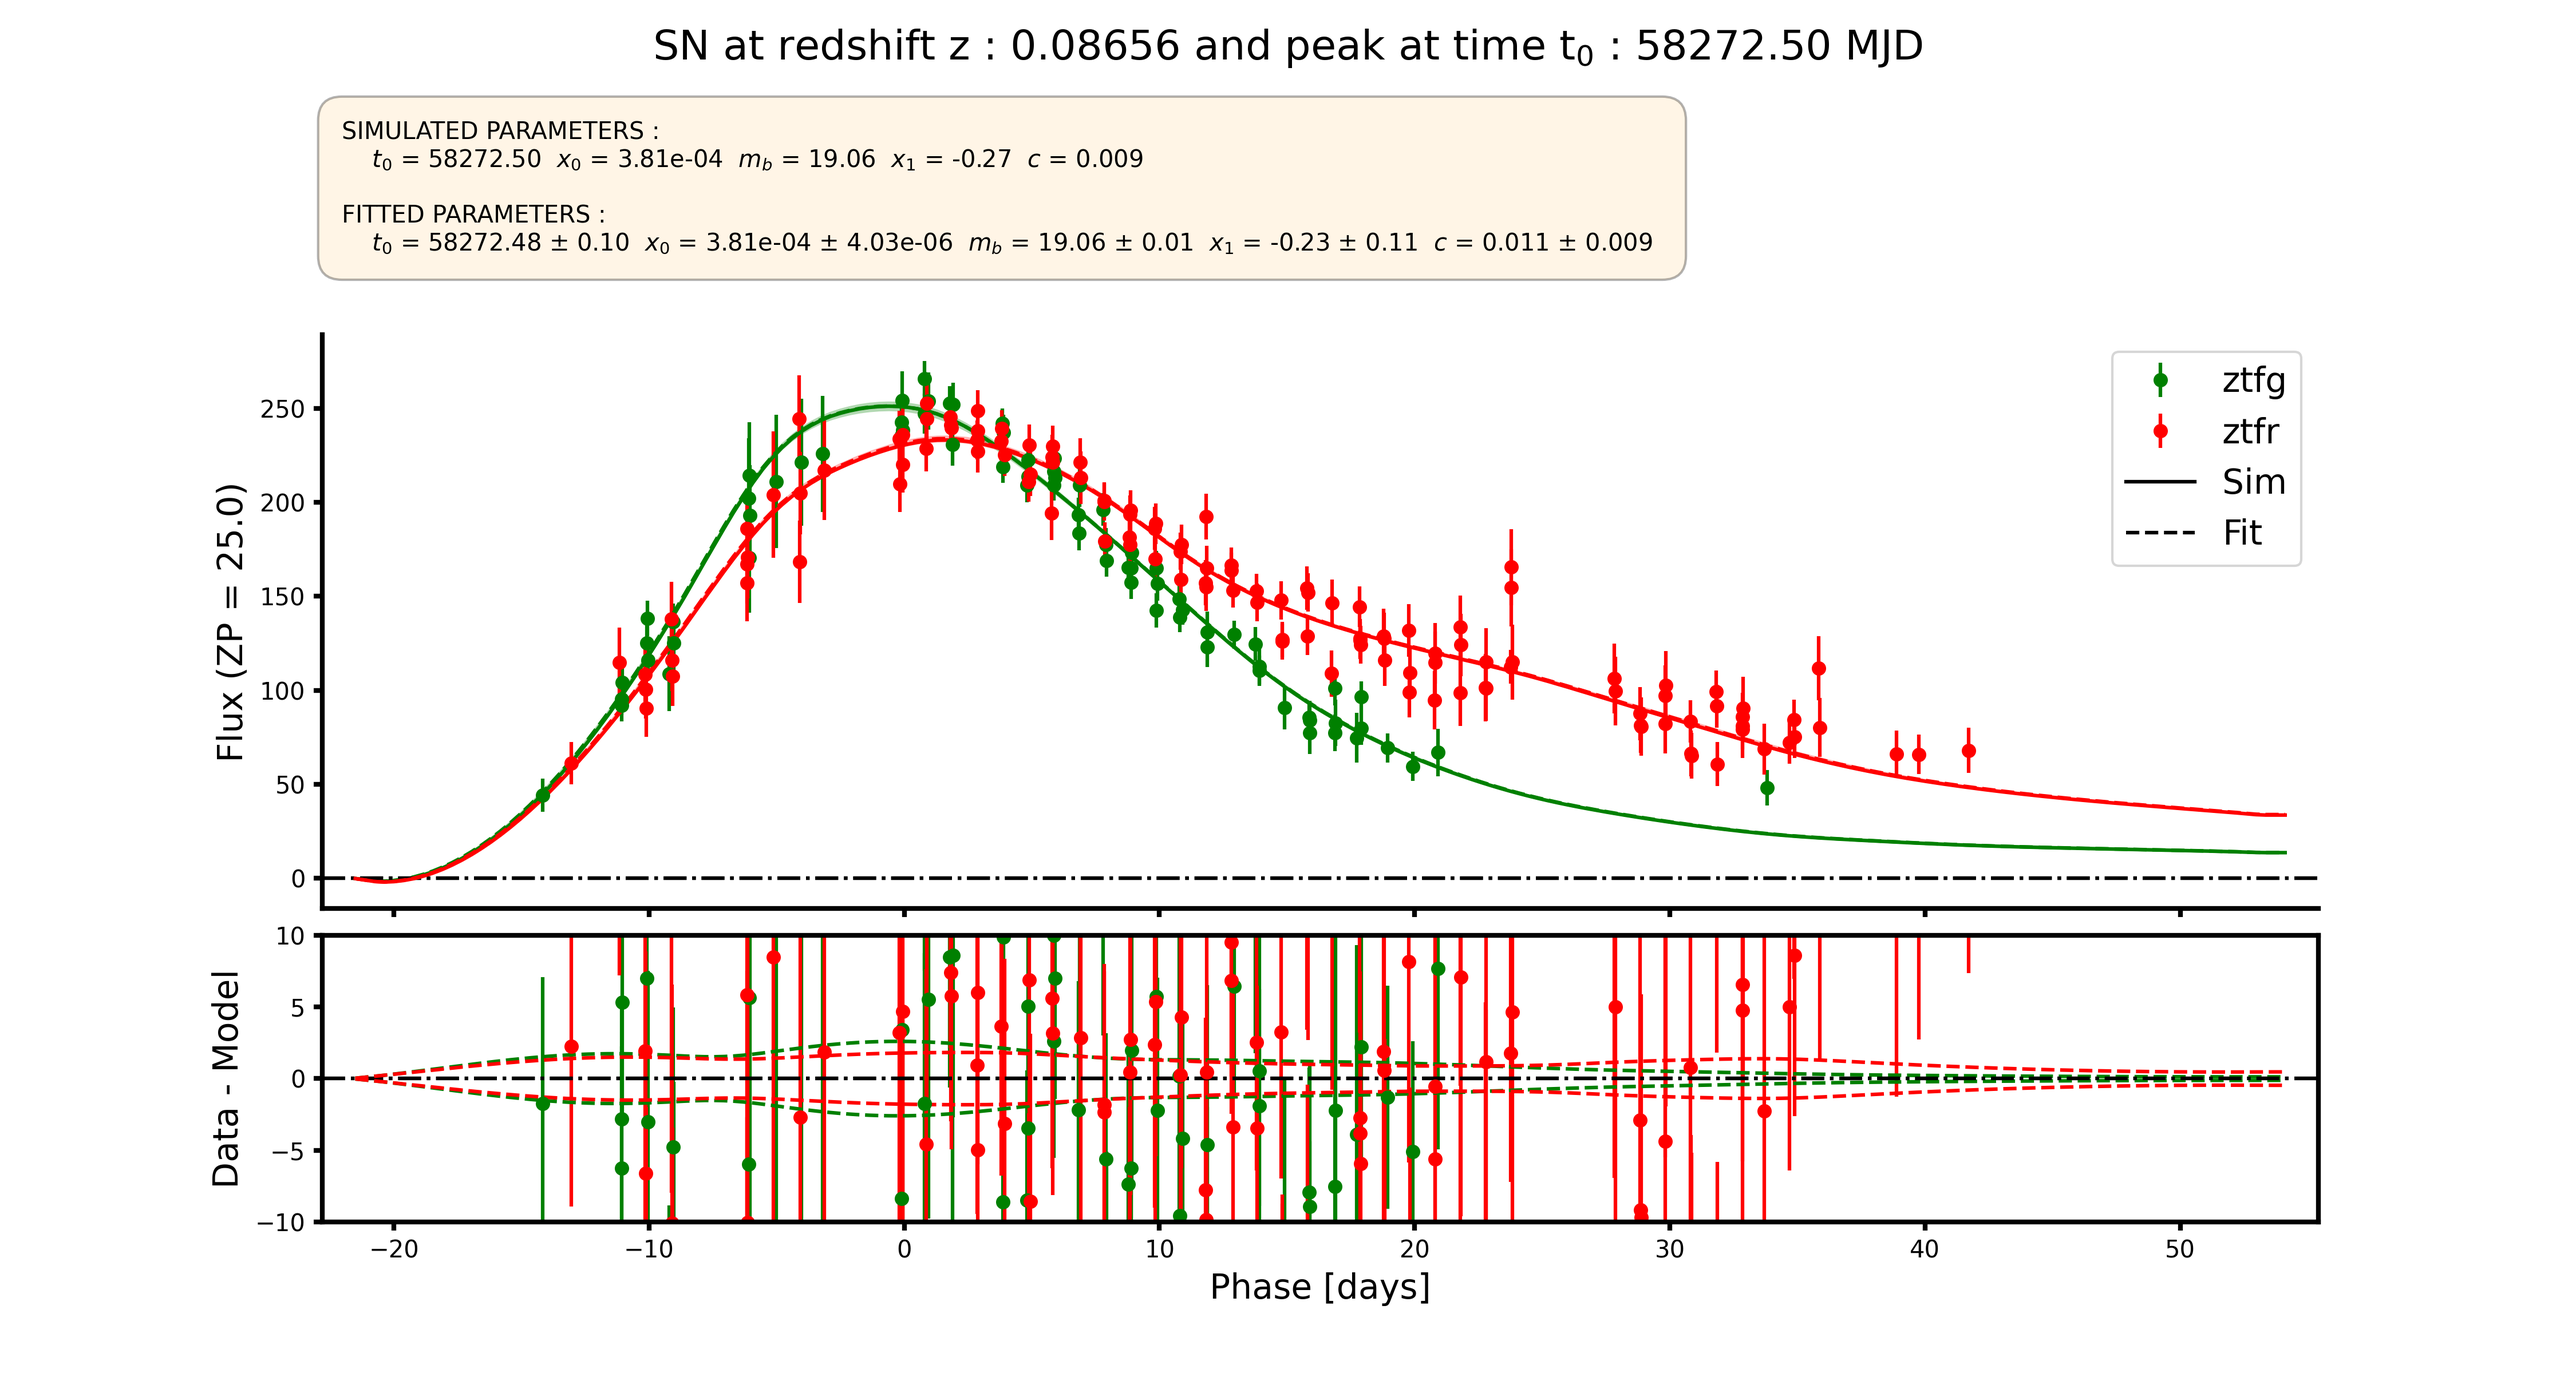
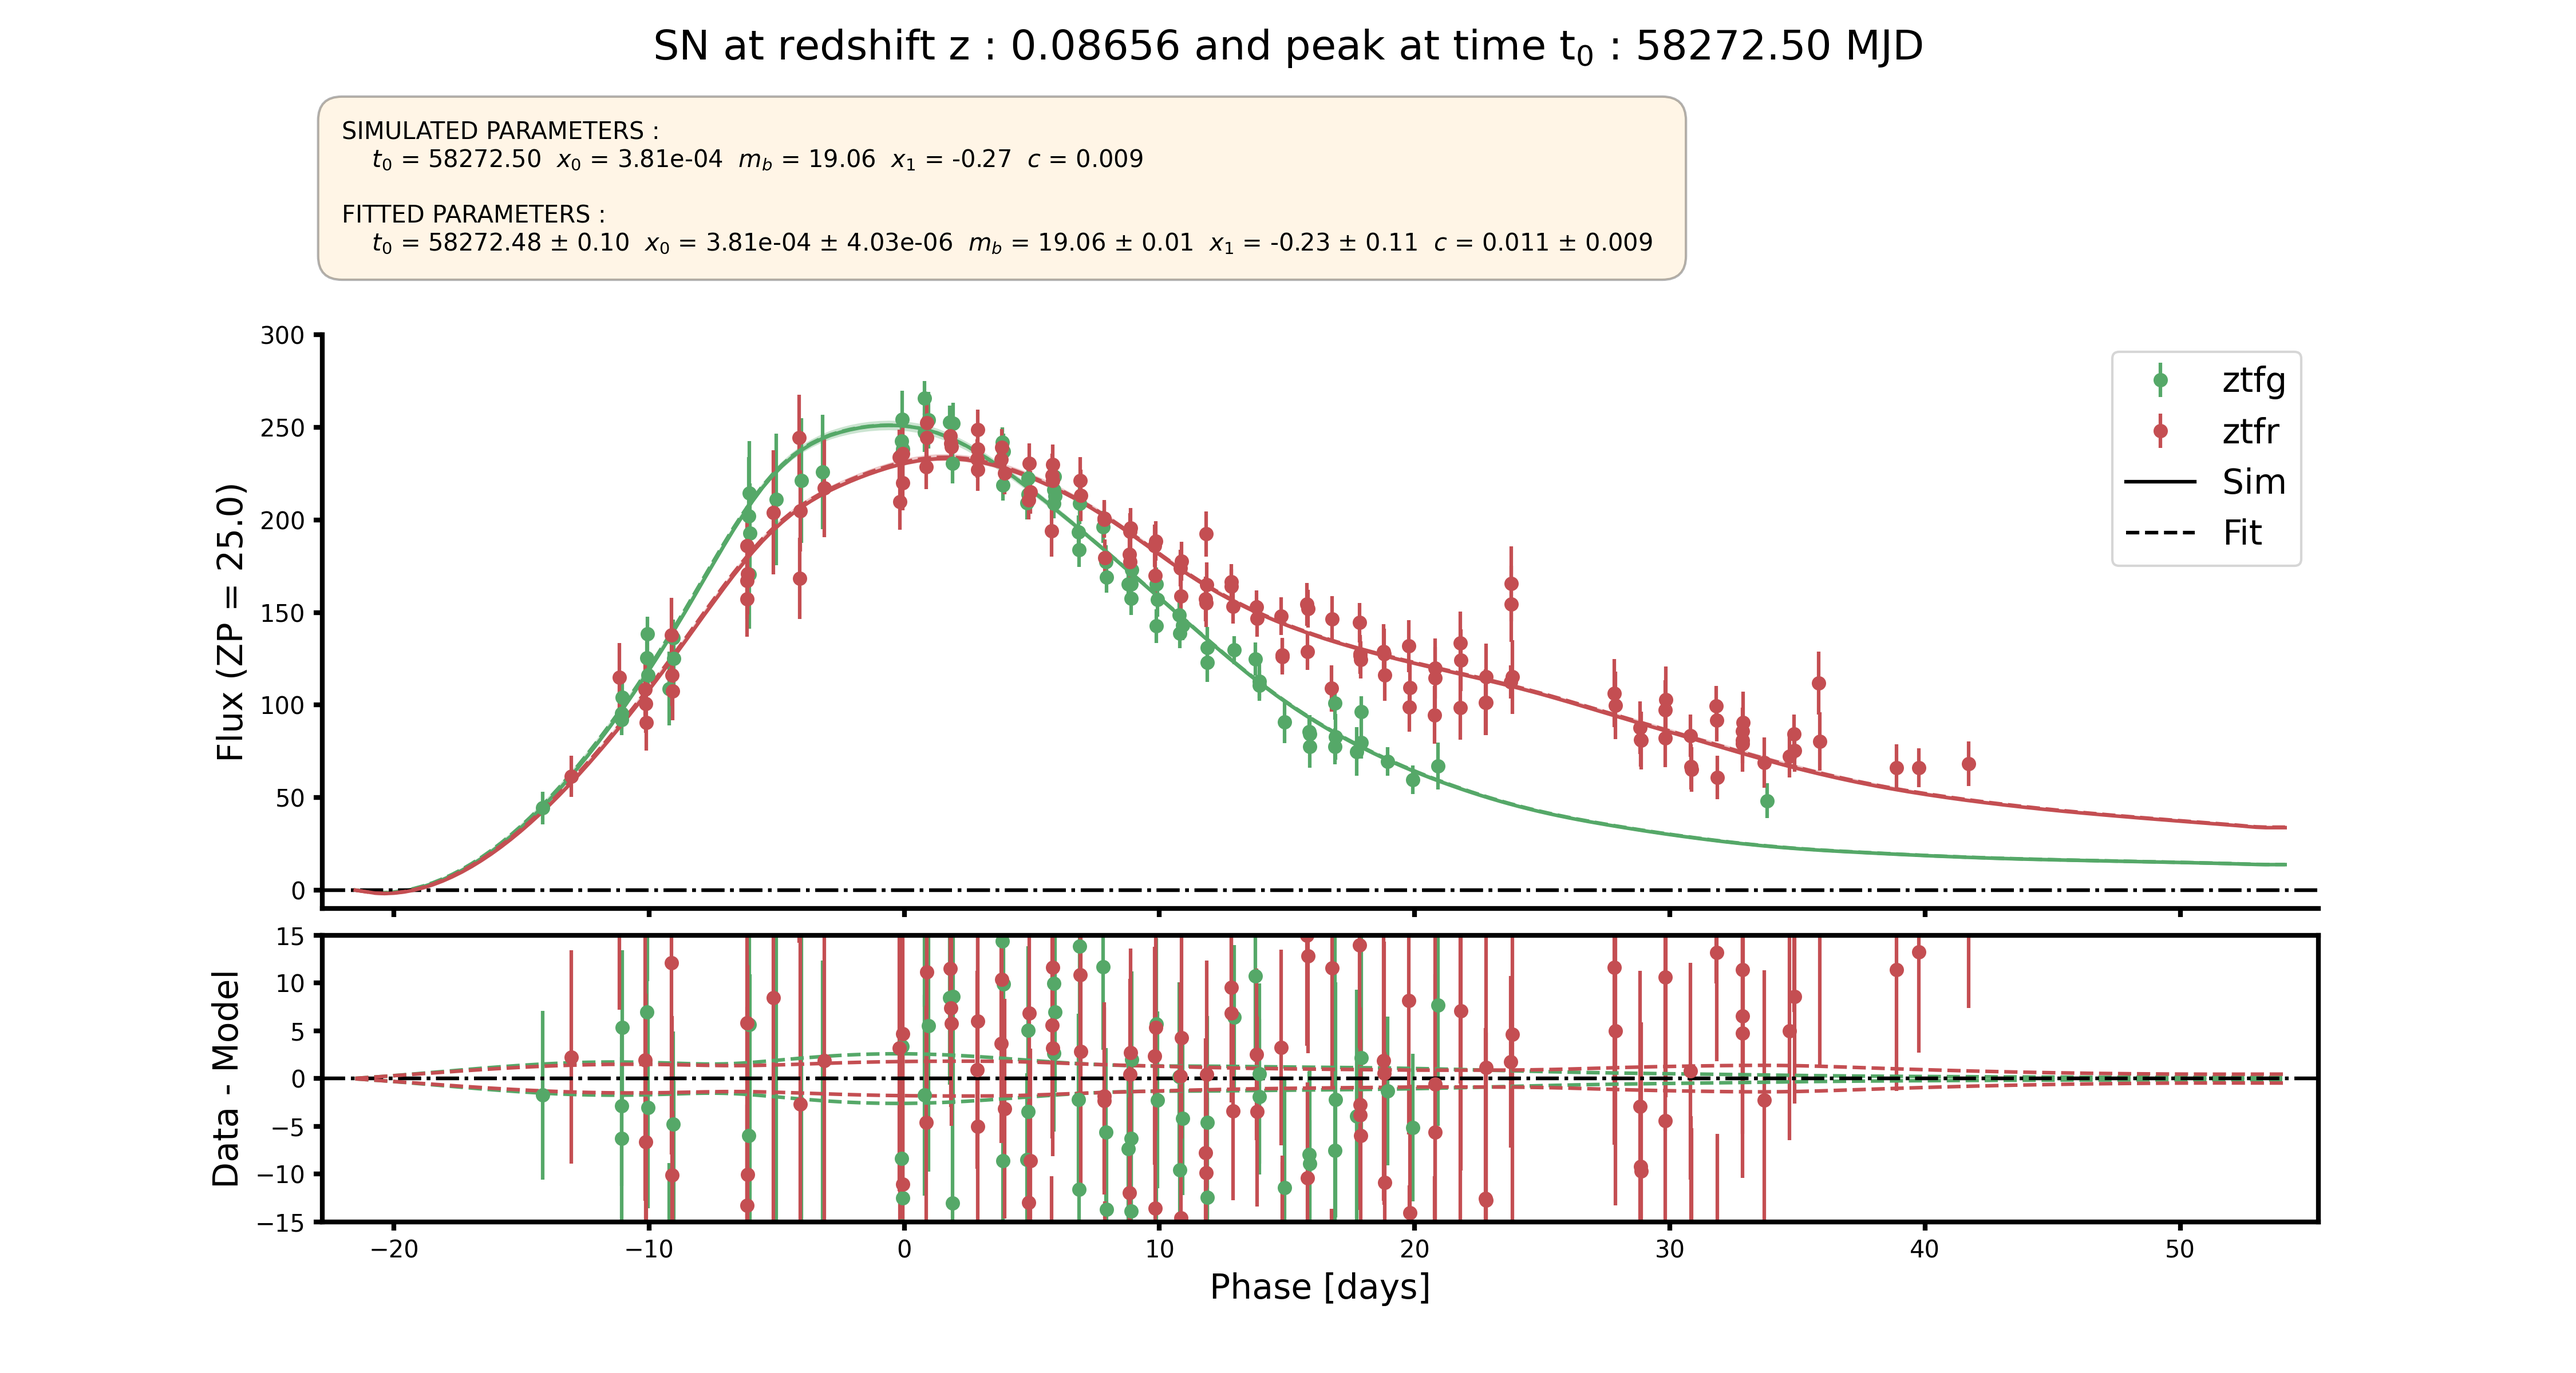
- new figures - Change plot funtion arguments

diff --git a/snsim/sample.py b/snsim/sample.py
@@ -381,9 +381,7 @@ class SimSample:
         if show:
             plt.show()
 
-    def plot_lc(self, obj_ID, mag=False, zp=25., plot_sim=True, plot_fit=False, Jy=False,
-                mod=False, dpi=120, bandcol=None, set_main=None, set_res=None,
-                savefig=False, savepath='LC', saveformat='png'):
+    def plot_lc(self, obj_ID, plot_sim=True, plot_fit=False, **kwargs):
         """Plot the given SN lightcurve.
 
         Parameters
@@ -413,19 +411,15 @@ class SimSample:
         Use plot_lc from utils.
 
         """
-        if mod:
-            lc = self.modified_lcs.loc[obj_ID]
-            meta = self.modified_lcs.attrs[obj_ID]
-        else:
-            lc = self.sim_lcs.loc[obj_ID]
-            meta = self.sim_lcs.attrs[obj_ID]
+        lc = self.sim_lcs.loc[obj_ID]
+        meta = self.sim_lcs.attrs[obj_ID]
 
         if plot_sim:
             s_model = self.get_obj_sim_model(obj_ID)
         else:
             s_model = None
 
-        if plot_fit and not mod:
+        if plot_fit:
             if self.fit_res is None or obj_ID not in self.fit_res:
                 print('This SN was not fitted, launch fit')
                 self.fit_lc(obj_ID)
@@ -438,29 +432,17 @@ class SimSample:
             cov_t0_x0_x1_c = self.fit_res[obj_ID]['snc_out']['covariance'][:, :]
             residuals = True
 
-        elif plot_fit and mod:
-            print("You can't fit mod sn, write the in a file and load them"
-                  "as SimSample class")
         else:
             f_model = None
             cov_t0_x0_x1_c = None
             residuals = False
         plot_ut.plot_lc(lc,
                         meta,
-                        mag=mag,
                         snc_sim_model=s_model,
                         snc_fit_model=f_model,
-                        fit_cov=cov_t0_x0_x1_c,
-                        zp=zp,
                         residuals=residuals,
-                        Jy=Jy,
-                        dpi=dpi,
-                        set_main=set_main,
-                        set_res=set_res,
-                        bandcol=bandcol,
-                        savefig=savefig,
-                        saveformat=saveformat,
-                        savepath=savepath)
+                        fit_cov=cov_t0_x0_x1_c,
+                        **kwargs)
 
     def plot_ra_dec(self, plot_vpec=False, field_dic=None, field_size=None, **kwarg):
         """Plot a mollweide map of ra, dec.

diff --git a/snsim/plot_utils.py b/snsim/plot_utils.py
@@ -68,6 +68,7 @@ def plot_lc(
         bandcol=None,
         set_main=None,
         set_res=None,
+        mtpstyle='seaborn-deep',
         dpi=100,
         savefig=False, savepath='LC', saveformat='png'):
     """Ploting a lightcurve flux table.
@@ -95,7 +96,7 @@ def plot_lc(
         Just plot the lightcurve.
 
     """
-    plt.style.use('seaborn-deep')
+    plt.style.use(mtpstyle)
 
     figsize = (15, 8)
 
